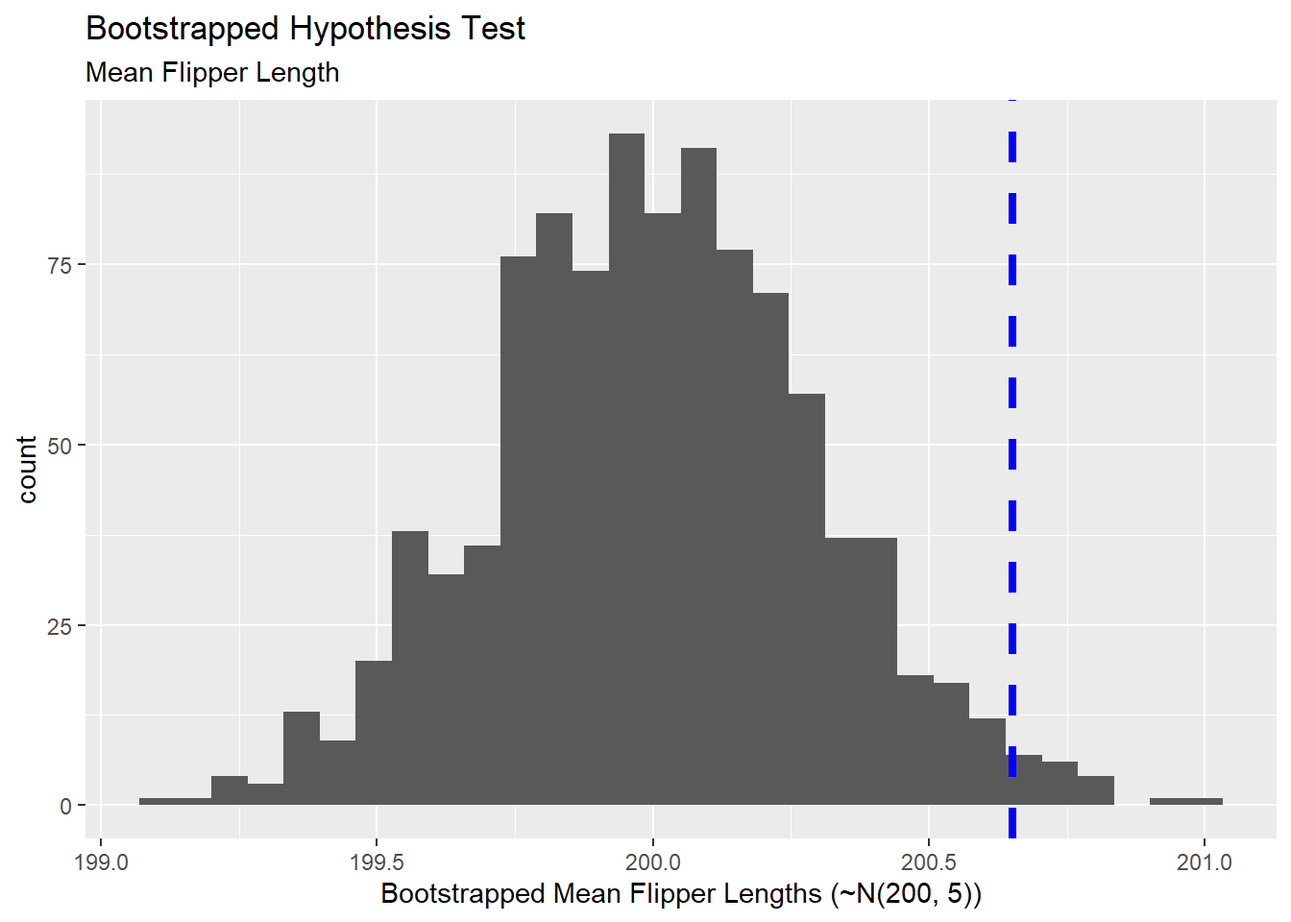
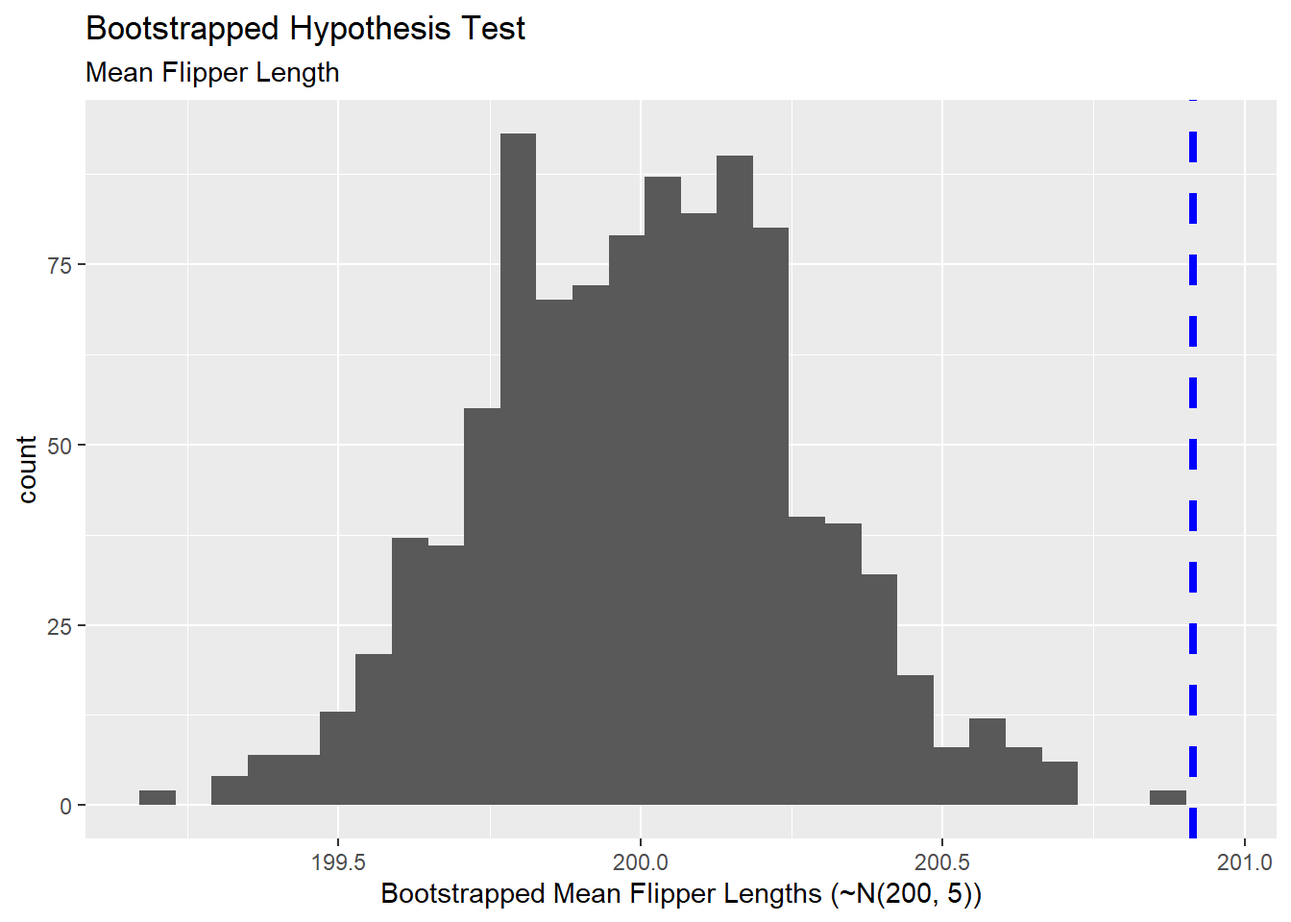
fix fallout from changing penguins samples

diff --git a/ClassicalInferenceAndSimulationBasedInference.html b/ClassicalInferenceAndSimulationBasedInference.html
@@ -133,7 +133,7 @@ code span.wa { color: #60a0b0; font-weight: bold; font-style: italic; } /* Warni
 
 </header>
 
-<p><strong>Objectives:</strong> In this notebook we’ll be reminded of classical inference techniques built on the Central Limit Theorem. We’ll also address bootstrapping methods and how statistical inference can still be made from data even if we refuse to assume the Central Limit Theorem. We’ll attempt some statistical inferences using these bootstrapping techniques and our <code>penguins_samp2</code> data.</p>
+<p><strong>Objectives:</strong> In this notebook we’ll be reminded of classical inference techniques built on the Central Limit Theorem. We’ll also address bootstrapping methods and how statistical inference can still be made from data even if we refuse to assume the Central Limit Theorem. We’ll attempt some statistical inferences using these bootstrapping techniques and our <code>penguins</code> data.</p>
 <section id="classical-statistics-versus-simulation-based-methods" class="level2">
 <h2 class="anchored" data-anchor-id="classical-statistics-versus-simulation-based-methods">Classical Statistics versus Simulation-Based Methods</h2>
 <p>In your introductory statistics courses, you spent lots of time using confidence intervals and hypothesis tests to make or test claims about populations by using sample data. Those are really powerful tools, but you saw them in a fairly restrictive environment – that entire course assumed that the underlying sampling distribution was nearly normal. While this is often the case, it isn’t always a reasonable assumption – particularly in the case of small sample sizes or extremely skewed metrics. We’ll recap those classical approaches and introduce simulation-based methods in this notebook.</p>
@@ -141,8 +141,8 @@ code span.wa { color: #60a0b0; font-weight: bold; font-style: italic; } /* Warni
 <h3 class="anchored" data-anchor-id="classical-approaches-a-reminder">Classical Approaches: A Reminder</h3>
 <p>In Classical Statistics, we assume the Central Limit Theorem. That Theorem guarantees that the sampling distribution (the distribution of summary statistics for <em>all</em> samples of our size from the population) is approximately Normal. This allows us to</p>
 <ul>
-<li>Use critical values from a <em>Normal</em> or <em>t</em>-distribution when building confidence intervals. As a reminder, confidence intervals are constructed using the following formula: <span class="math display">\[\left(\text{point_estimate}\right) \pm \left(\text{critical_value}\right)\left(\text{standard_error}\right)\]</span></li>
-<li>Compute <span class="math inline">\(p\)</span>-values using a test statistic and then computing a <span class="math inline">\(p\)</span>-value using a <em>Normal</em> or <em>t</em>-distribution. As a reminder, our test statistics were computed as follows: <span class="math display">\[\text{test_statistic} = \frac{\left(\text{point_estimate}\right) - \left(\text{null_value}\right)}{\text{standard_error}}\]</span></li>
+<li>Use critical values from a <em>Normal</em> or <em>t</em>-distribution when building confidence intervals. As a reminder, confidence intervals are constructed using the following formula: <span class="math display">\[\left(\text{point\_estimate}\right) \pm \left(\text{critical\_value}\right)\left(\text{standard\_error}\right)\]</span></li>
+<li>Compute <span class="math inline">\(p\)</span>-values using a test statistic and then computing a <span class="math inline">\(p\)</span>-value using a <em>Normal</em> or <em>t</em>-distribution. As a reminder, our test statistics were computed as follows: <span class="math display">\[\text{test\_statistic} = \frac{\left(\text{point\_estimate}\right) - \left(\text{null\_value}\right)}{\text{standard\_error}}\]</span></li>
 </ul>
 <p>While the Central Limit Theorem often applies, we can’t always assume it. Simulation techniques are helpful in those situations.</p>
 </section>
@@ -151,13 +151,13 @@ code span.wa { color: #60a0b0; font-weight: bold; font-style: italic; } /* Warni
 <p>If we are in a scenario where we are unable to assume that our underlying sampling distribution is nearly normal, then we’ll need another technique. Essentially, by refusing to assume that the sampling distribution is nearly normal, we concede that any <span class="math inline">\(p\)</span>-value we find, or confidence intervals we build will be untrustworthy. As long as we are willing to assume that our sample data is <em>random</em> and <em>representative</em> of the population, then we can use simulation techniques to find <span class="math inline">\(p\)</span>-values and generate confidence intervals.</p>
 <section id="bootstrapping" class="level4">
 <h4 class="anchored" data-anchor-id="bootstrapping">Bootstrapping</h4>
-<p>As long as we are comfortable assuming that our sample data is <em>random</em> and <em>representative</em> of our population, then we can treat our sample data as if it were a population. We can then redraw samples of the same size out of it. We can do this over and over again, computing our sample statistic for each redrawn (<em>bootstrapped</em>) sample. Let’s see that in action below, using our <code>penguins_samp2</code> data.</p>
+<p>As long as we are comfortable assuming that our sample data is <em>random</em> and <em>representative</em> of our population, then we can treat our sample data as if it were a population. We can then redraw samples of the same size out of it. We can do this over and over again, computing our sample statistic for each redrawn (<em>bootstrapped</em>) sample. Let’s see that in action below, using our full <code>penguins</code> data.</p>
 <div class="cell">
 <div class="sourceCode cell-code" id="cb1"><pre class="sourceCode r code-with-copy"><code class="sourceCode r"><span id="cb1-1"><a href="#cb1-1" aria-hidden="true" tabindex="-1"></a>n_samps <span class="ot">&lt;-</span> <span class="dv">1000</span></span>
 <span id="cb1-2"><a href="#cb1-2" aria-hidden="true" tabindex="-1"></a>sample_means <span class="ot">&lt;-</span> <span class="fu">rep</span>(<span class="cn">NA</span>, n_samps)</span>
 <span id="cb1-3"><a href="#cb1-3" aria-hidden="true" tabindex="-1"></a><span class="cf">for</span>(i <span class="cf">in</span> <span class="dv">1</span><span class="sc">:</span>n_samps){</span>
-<span id="cb1-4"><a href="#cb1-4" aria-hidden="true" tabindex="-1"></a>  my_samp <span class="ot">&lt;-</span> penguins_samp2 <span class="sc">%&gt;%</span></span>
-<span id="cb1-5"><a href="#cb1-5" aria-hidden="true" tabindex="-1"></a>    <span class="fu">sample_n</span>(<span class="fu">nrow</span>(penguins_samp2), <span class="at">replace =</span> <span class="cn">TRUE</span>)</span>
+<span id="cb1-4"><a href="#cb1-4" aria-hidden="true" tabindex="-1"></a>  my_samp <span class="ot">&lt;-</span> penguins <span class="sc">%&gt;%</span></span>
+<span id="cb1-5"><a href="#cb1-5" aria-hidden="true" tabindex="-1"></a>    <span class="fu">sample_n</span>(<span class="fu">nrow</span>(penguins), <span class="at">replace =</span> <span class="cn">TRUE</span>)</span>
 <span id="cb1-6"><a href="#cb1-6" aria-hidden="true" tabindex="-1"></a>  sample_means[i] <span class="ot">&lt;-</span> my_samp <span class="sc">%&gt;%</span></span>
 <span id="cb1-7"><a href="#cb1-7" aria-hidden="true" tabindex="-1"></a>    <span class="fu">summarize</span>(<span class="at">mean =</span> <span class="fu">mean</span>(flipper_length_mm, <span class="at">na.rm =</span> <span class="cn">TRUE</span>)) <span class="sc">%&gt;%</span></span>
 <span id="cb1-8"><a href="#cb1-8" aria-hidden="true" tabindex="-1"></a>    <span class="fu">pull</span>(mean)</span>
@@ -183,10 +183,10 @@ code span.wa { color: #60a0b0; font-weight: bold; font-style: italic; } /* Warni
 <div class="sourceCode cell-code" id="cb3"><pre class="sourceCode r code-with-copy"><code class="sourceCode r"><span id="cb3-1"><a href="#cb3-1" aria-hidden="true" tabindex="-1"></a><span class="fu">quantile</span>(sample_means, <span class="fu">c</span>(<span class="fl">0.025</span>, <span class="fl">0.975</span>))</span></code><button title="Copy to Clipboard" class="code-copy-button"><i class="bi"></i></button></pre></div>
 <div class="cell-output cell-output-stdout">
 <pre><code>    2.5%    97.5% 
-199.0373 202.2575 </code></pre>
+199.4006 202.4362 </code></pre>
 </div>
 </div>
-<p>We can now claim, with <span class="math inline">\(95\)</span>% confidence, that the population mean flipper length for penguins falls somewhere between 199.04mm and 202.26mm. Visually, what we’ve done appears below – with the confidence interval bounds represented by the two vertical dashed lines.</p>
+<p>We can now claim, with <span class="math inline">\(95\)</span>% confidence, that the population mean flipper length for penguins falls somewhere between 199.4mm and 202.44mm. Visually, what we’ve done appears below – with the confidence interval bounds represented by the two vertical dashed lines.</p>
 <div class="cell">
 <div class="sourceCode cell-code" id="cb5"><pre class="sourceCode r code-with-copy"><code class="sourceCode r"><span id="cb5-1"><a href="#cb5-1" aria-hidden="true" tabindex="-1"></a><span class="fu">ggplot</span>() <span class="sc">+</span></span>
 <span id="cb5-2"><a href="#cb5-2" aria-hidden="true" tabindex="-1"></a>  <span class="fu">geom_histogram</span>(<span class="fu">aes</span>(<span class="at">x =</span> sample_means)) <span class="sc">+</span></span>
@@ -220,11 +220,11 @@ code span.wa { color: #60a0b0; font-weight: bold; font-style: italic; } /* Warni
 <span id="cb7-2"><a href="#cb7-2" aria-hidden="true" tabindex="-1"></a>bootstrapped_mean_lengths <span class="ot">&lt;-</span> <span class="fu">rep</span>(<span class="cn">NA</span>, num_samps)</span>
 <span id="cb7-3"><a href="#cb7-3" aria-hidden="true" tabindex="-1"></a></span>
 <span id="cb7-4"><a href="#cb7-4" aria-hidden="true" tabindex="-1"></a><span class="cf">for</span>(i <span class="cf">in</span> <span class="dv">1</span><span class="sc">:</span>num_samps){</span>
-<span id="cb7-5"><a href="#cb7-5" aria-hidden="true" tabindex="-1"></a>  my_samp <span class="ot">&lt;-</span> <span class="fu">rnorm</span>(<span class="fu">nrow</span>(penguins_samp2), <span class="dv">200</span>, <span class="dv">5</span>)</span>
+<span id="cb7-5"><a href="#cb7-5" aria-hidden="true" tabindex="-1"></a>  my_samp <span class="ot">&lt;-</span> <span class="fu">rnorm</span>(<span class="fu">nrow</span>(penguins), <span class="dv">200</span>, <span class="dv">5</span>)</span>
 <span id="cb7-6"><a href="#cb7-6" aria-hidden="true" tabindex="-1"></a>  bootstrapped_mean_lengths[i] <span class="ot">&lt;-</span> <span class="fu">mean</span>(my_samp)</span>
 <span id="cb7-7"><a href="#cb7-7" aria-hidden="true" tabindex="-1"></a>  }</span>
 <span id="cb7-8"><a href="#cb7-8" aria-hidden="true" tabindex="-1"></a></span>
-<span id="cb7-9"><a href="#cb7-9" aria-hidden="true" tabindex="-1"></a>my_mean_flipper_length <span class="ot">&lt;-</span> penguins_samp2 <span class="sc">%&gt;%</span></span>
+<span id="cb7-9"><a href="#cb7-9" aria-hidden="true" tabindex="-1"></a>my_mean_flipper_length <span class="ot">&lt;-</span> penguins <span class="sc">%&gt;%</span></span>
 <span id="cb7-10"><a href="#cb7-10" aria-hidden="true" tabindex="-1"></a>  <span class="fu">summarize</span>(<span class="at">mean =</span> <span class="fu">mean</span>(flipper_length_mm, <span class="at">na.rm =</span> <span class="cn">TRUE</span>)) <span class="sc">%&gt;%</span></span>
 <span id="cb7-11"><a href="#cb7-11" aria-hidden="true" tabindex="-1"></a>  <span class="fu">pull</span>(mean)</span>
 <span id="cb7-12"><a href="#cb7-12" aria-hidden="true" tabindex="-1"></a></span>
@@ -252,7 +252,7 @@ code span.wa { color: #60a0b0; font-weight: bold; font-style: italic; } /* Warni
 <span id="cb9-3"><a href="#cb9-3" aria-hidden="true" tabindex="-1"></a>bootstrapped_p_value <span class="ot">&lt;-</span> <span class="dv">2</span><span class="sc">*</span>(num_extreme <span class="sc">/</span> num_samps)</span>
 <span id="cb9-4"><a href="#cb9-4" aria-hidden="true" tabindex="-1"></a>bootstrapped_p_value</span></code><button title="Copy to Clipboard" class="code-copy-button"><i class="bi"></i></button></pre></div>
 <div class="cell-output cell-output-stdout">
-<pre><code>[1] 0.036</code></pre>
+<pre><code>[1] 0</code></pre>
 </div>
 </div>
 <p>Since we’ve obtained a Bootstrapped <span class="math inline">\(p\)</span>-value below <span class="math inline">\(0.05\)</span>, we have statistically significant evidence to suggest that our penguin flipper lengths do not come from a normal distribution with mean <span class="math inline">\(200\)</span>mm and standard deviation <span class="math inline">\(5\)</span>mm. Three things are possible here:</p>
@@ -264,16 +264,16 @@ code span.wa { color: #60a0b0; font-weight: bold; font-style: italic; } /* Warni
 </section>
 <section id="permutation-tests-for-group-comparisons" class="level4">
 <h4 class="anchored" data-anchor-id="permutation-tests-for-group-comparisons">Permutation Tests for Group Comparisons</h4>
-<p>We can also use a Bootstrapping procedure for conducting two-sample comparison hypothesis tests. Perhaps we are wondering whether there is a difference in the mean flipper lengths for male and female penguins. We know that our sample <code>penguins_samp2</code> has the correct/meaningful assignment of each penguin’s <code>sex</code>. This results in a group of male and female penguins whose average flipper length is a quantity we can compute. Once we have those average flipper lengths, we can subtract them to find the difference in mean flipper lengths between male and female penguins in our sample.</p>
+<p>We can also use a Bootstrapping procedure for conducting two-sample comparison hypothesis tests. Perhaps we are wondering whether there is a difference in the mean flipper lengths for male and female penguins. We know that our sample <code>penguins</code> has the correct/meaningful assignment of each penguin’s <code>sex</code>. This results in a group of male and female penguins whose average flipper length is a quantity we can compute. Once we have those average flipper lengths, we can subtract them to find the difference in mean flipper lengths between male and female penguins in our sample.</p>
 <p>Next, we can permute (shuffle) the values in the <code>sex</code> column, creating a new grouping of the penguins which is not actually related to the <code>sex</code> of the penguins at all. Similarly, we can compute the average flipper length within each group and subtract those averages to find the difference in mean flipper length between the two groups. We can do this lots of times, obtaining lots of differences in average flipper lengths for which the <code>sex</code> variable is meaningless. Then, we can see whether our sample, where <code>sex</code> is a meaningful variable, is an outlier in this distribution of bootstrapped results.</p>
 <p>Let’s try it!</p>
 <div class="cell">
-<div class="sourceCode cell-code" id="cb11"><pre class="sourceCode r code-with-copy"><code class="sourceCode r"><span id="cb11-1"><a href="#cb11-1" aria-hidden="true" tabindex="-1"></a>my_female_avg_flipper_length <span class="ot">&lt;-</span> penguins_samp2 <span class="sc">%&gt;%</span></span>
+<div class="sourceCode cell-code" id="cb11"><pre class="sourceCode r code-with-copy"><code class="sourceCode r"><span id="cb11-1"><a href="#cb11-1" aria-hidden="true" tabindex="-1"></a>my_female_avg_flipper_length <span class="ot">&lt;-</span> penguins <span class="sc">%&gt;%</span></span>
 <span id="cb11-2"><a href="#cb11-2" aria-hidden="true" tabindex="-1"></a>  <span class="fu">filter</span>(sex <span class="sc">==</span> <span class="st">"female"</span>) <span class="sc">%&gt;%</span></span>
 <span id="cb11-3"><a href="#cb11-3" aria-hidden="true" tabindex="-1"></a>  <span class="fu">summarize</span>(<span class="at">mean =</span> <span class="fu">mean</span>(flipper_length_mm, <span class="at">na.rm =</span> <span class="cn">TRUE</span>)) <span class="sc">%&gt;%</span></span>
 <span id="cb11-4"><a href="#cb11-4" aria-hidden="true" tabindex="-1"></a>  <span class="fu">pull</span>(mean)</span>
 <span id="cb11-5"><a href="#cb11-5" aria-hidden="true" tabindex="-1"></a></span>
-<span id="cb11-6"><a href="#cb11-6" aria-hidden="true" tabindex="-1"></a>my_male_avg_flipper_length <span class="ot">&lt;-</span> penguins_samp2 <span class="sc">%&gt;%</span></span>
+<span id="cb11-6"><a href="#cb11-6" aria-hidden="true" tabindex="-1"></a>my_male_avg_flipper_length <span class="ot">&lt;-</span> penguins <span class="sc">%&gt;%</span></span>
 <span id="cb11-7"><a href="#cb11-7" aria-hidden="true" tabindex="-1"></a>  <span class="fu">filter</span>(sex <span class="sc">==</span> <span class="st">"male"</span>) <span class="sc">%&gt;%</span></span>
 <span id="cb11-8"><a href="#cb11-8" aria-hidden="true" tabindex="-1"></a>  <span class="fu">summarize</span>(<span class="at">mean =</span> <span class="fu">mean</span>(flipper_length_mm, <span class="at">na.rm =</span> <span class="cn">TRUE</span>)) <span class="sc">%&gt;%</span></span>
 <span id="cb11-9"><a href="#cb11-9" aria-hidden="true" tabindex="-1"></a>  <span class="fu">pull</span>(mean)</span>
@@ -285,8 +285,8 @@ code span.wa { color: #60a0b0; font-weight: bold; font-style: italic; } /* Warni
 <span id="cb11-15"><a href="#cb11-15" aria-hidden="true" tabindex="-1"></a>independent_differences <span class="ot">&lt;-</span> <span class="fu">rep</span>(<span class="cn">NA</span>, num_samps)</span>
 <span id="cb11-16"><a href="#cb11-16" aria-hidden="true" tabindex="-1"></a></span>
 <span id="cb11-17"><a href="#cb11-17" aria-hidden="true" tabindex="-1"></a><span class="cf">for</span>(i <span class="cf">in</span> <span class="dv">1</span><span class="sc">:</span>num_samps){</span>
-<span id="cb11-18"><a href="#cb11-18" aria-hidden="true" tabindex="-1"></a>  penguins_reassigned <span class="ot">&lt;-</span> penguins_samp2 <span class="sc">%&gt;%</span></span>
-<span id="cb11-19"><a href="#cb11-19" aria-hidden="true" tabindex="-1"></a>    <span class="fu">mutate</span>(<span class="at">sex =</span> <span class="fu">sample</span>(sex, <span class="fu">nrow</span>(penguins_samp2), <span class="at">replace =</span> <span class="cn">FALSE</span>))</span>
+<span id="cb11-18"><a href="#cb11-18" aria-hidden="true" tabindex="-1"></a>  penguins_reassigned <span class="ot">&lt;-</span> penguins <span class="sc">%&gt;%</span></span>
+<span id="cb11-19"><a href="#cb11-19" aria-hidden="true" tabindex="-1"></a>    <span class="fu">mutate</span>(<span class="at">sex =</span> <span class="fu">sample</span>(sex, <span class="fu">nrow</span>(penguins), <span class="at">replace =</span> <span class="cn">FALSE</span>))</span>
 <span id="cb11-20"><a href="#cb11-20" aria-hidden="true" tabindex="-1"></a>  </span>
 <span id="cb11-21"><a href="#cb11-21" aria-hidden="true" tabindex="-1"></a>  fem_avg <span class="ot">&lt;-</span> penguins_reassigned <span class="sc">%&gt;%</span></span>
 <span id="cb11-22"><a href="#cb11-22" aria-hidden="true" tabindex="-1"></a>    <span class="fu">filter</span>(sex <span class="sc">==</span> <span class="st">"female"</span>) <span class="sc">%&gt;%</span></span>

diff --git a/FromDescriptionToInference.html b/FromDescriptionToInference.html
@@ -93,7 +93,7 @@ ul.task-list li input[type="checkbox"] {
 <h3 class="anchored" data-anchor-id="why-cant-we-use-penguins_samp1-anymore">Why Can’t We Use <code>penguins_samp1</code> Anymore?</h3>
 <p>We’ve looked at our <em>sample</em> penguins data already. We explored that data without making any hypotheses ahead of time. We searched for relationships within that data set and we were successful in finding some. How do we know that those <em>relationships</em>/<em>associations</em> aren’t just noise in the data? Simply put, we don’t!</p>
 <p>Unfortunately, we can’t go back on this now either. As ethical scientists, we can’t use the <code>penguins_samp1</code> data for inference tasks because we know what those data say. We are now in a scenario where the data has informed which questions should be asked, whereas the data should only be used to answer the questions we had before we looked at it. To put it in terms analogous to schooling – the <em>data</em> wrote the exam, so certainly the <em>data</em> has an advantage in answering the questions.</p>
-<p><strong>For Example:</strong> In our exploratory data analysis, we saw that the [INSERT MISLEADING INSIGHT HERE]. If we test that hypothesis using the data from last time, it should be no surprise that we obtain a statistically significant result – we <em>snooped</em> for it.</p>
+<p><strong>For Example:</strong> In our analysis from the <code>TidyAnalysesInR</code> notebook, at the end of our exploratory analysis, we asked whether the average penguin <code>bill_length_mm</code> exceeded <span class="math inline">\(45\)</span>mm. I suggested that you ask this questions because the average bill length for a penguin in that dataset was over <span class="math inline">\(46\)</span>mm. If we test that hypothesis using the data from last time (<code>penguins_samp1</code>), it should be no surprise that we obtain a statistically significant result – we <em>snooped</em> for it.</p>
 </section>
 <section id="uncertainty-and-errors-in-statistics" class="level3">
 <h3 class="anchored" data-anchor-id="uncertainty-and-errors-in-statistics">Uncertainty and Errors in Statistics</h3>

diff --git a/ClassicalInferenceAndSimulationBasedInference.md b/ClassicalInferenceAndSimulationBasedInference.md
@@ -12,7 +12,7 @@ execute:
 
 
 
-**Objectives:** In this notebook we'll be reminded of classical inference techniques built on the Central Limit Theorem. We'll also address bootstrapping methods and how statistical inference can still be made from data even if we refuse to assume the Central Limit Theorem. We'll attempt some statistical inferences using these bootstrapping techniques and our `penguins_samp2` data.
+**Objectives:** In this notebook we'll be reminded of classical inference techniques built on the Central Limit Theorem. We'll also address bootstrapping methods and how statistical inference can still be made from data even if we refuse to assume the Central Limit Theorem. We'll attempt some statistical inferences using these bootstrapping techniques and our `penguins` data.
 
 ## Classical Statistics versus Simulation-Based Methods
 
@@ -23,9 +23,9 @@ In your introductory statistics courses, you spent lots of time using confidence
 In Classical Statistics, we assume the Central Limit Theorem. That Theorem guarantees that the sampling distribution (the distribution of summary statistics for *all* samples of our size from the population) is approximately Normal. This allows us to
 
 + Use critical values from a *Normal* or *t*-distribution when building confidence intervals. As a reminder, confidence intervals are constructed using the following formula:
-$$\left(\text{point_estimate}\right) \pm \left(\text{critical_value}\right)\left(\text{standard_error}\right)$$
+$$\left(\text{point\_estimate}\right) \pm \left(\text{critical\_value}\right)\left(\text{standard\_error}\right)$$
 + Compute $p$-values using a test statistic and then computing a $p$-value using a *Normal* or *t*-distribution. As a reminder, our test statistics were computed as follows:
-$$\text{test_statistic} = \frac{\left(\text{point_estimate}\right) - \left(\text{null_value}\right)}{\text{standard_error}}$$
+$$\text{test\_statistic} = \frac{\left(\text{point\_estimate}\right) - \left(\text{null\_value}\right)}{\text{standard\_error}}$$
 
 While the Central Limit Theorem often applies, we can't always assume it. Simulation techniques are helpful in those situations.
 
@@ -35,7 +35,7 @@ If we are in a scenario where we are unable to assume that our underlying sampli
 
 #### Bootstrapping
 
-As long as we are comfortable assuming that our sample data is *random* and *representative* of our population, then we can treat our sample data as if it were a population. We can then redraw samples of the same size out of it. We can do this over and over again, computing our sample statistic for each redrawn (*bootstrapped*) sample. Let's see that in action below, using our `penguins_samp2` data.
+As long as we are comfortable assuming that our sample data is *random* and *representative* of our population, then we can treat our sample data as if it were a population. We can then redraw samples of the same size out of it. We can do this over and over again, computing our sample statistic for each redrawn (*bootstrapped*) sample. Let's see that in action below, using our full `penguins` data.
 
 
 ::: {.cell}
@@ -44,8 +44,8 @@ As long as we are comfortable assuming that our sample data is *random* and *rep
 n_samps <- 1000
 sample_means <- rep(NA, n_samps)
 for(i in 1:n_samps){
-  my_samp <- penguins_samp2 %>%
-    sample_n(nrow(penguins_samp2), replace = TRUE)
+  my_samp <- penguins %>%
+    sample_n(nrow(penguins), replace = TRUE)
   sample_means[i] <- my_samp %>%
     summarize(mean = mean(flipper_length_mm, na.rm = TRUE)) %>%
     pull(mean)
@@ -86,13 +86,13 @@ quantile(sample_means, c(0.025, 0.975))
 ::: {.cell-output .cell-output-stdout}
 ```
     2.5%    97.5% 
-199.0373 202.2575 
+199.4006 202.4362 
 ```
 :::
 :::
 
 
-We can now claim, with $95$% confidence, that the population mean flipper length for penguins falls somewhere between 199.04mm and 202.26mm. Visually, what we've done appears below -- with the confidence interval bounds represented by the two vertical dashed lines.
+We can now claim, with $95$% confidence, that the population mean flipper length for penguins falls somewhere between 199.4mm and 202.44mm. Visually, what we've done appears below -- with the confidence interval bounds represented by the two vertical dashed lines.
 
 
 ::: {.cell}
@@ -141,11 +141,11 @@ num_samps <- 1000
 bootstrapped_mean_lengths <- rep(NA, num_samps)
 
 for(i in 1:num_samps){
-  my_samp <- rnorm(nrow(penguins_samp2), 200, 5)
+  my_samp <- rnorm(nrow(penguins), 200, 5)
   bootstrapped_mean_lengths[i] <- mean(my_samp)
   }
 
-my_mean_flipper_length <- penguins_samp2 %>%
+my_mean_flipper_length <- penguins %>%
   summarize(mean = mean(flipper_length_mm, na.rm = TRUE)) %>%
   pull(mean)
 
@@ -187,7 +187,7 @@ bootstrapped_p_value
 
 ::: {.cell-output .cell-output-stdout}
 ```
-[1] 0.036
+[1] 0
 ```
 :::
 :::
@@ -201,7 +201,7 @@ Since we've obtained a Bootstrapped $p$-value below $0.05$, we have statisticall
 
 #### Permutation Tests for Group Comparisons
 
-We can also use a Bootstrapping procedure for conducting two-sample comparison hypothesis tests. Perhaps we are wondering whether there is a difference in the mean flipper lengths for male and female penguins. We know that our sample `penguins_samp2` has the correct/meaningful assignment of each penguin's `sex`. This results in a group of male and female penguins whose average flipper length is a quantity we can compute. Once we have those average flipper lengths, we can subtract them to find the difference in mean flipper lengths between male and female penguins in our sample.
+We can also use a Bootstrapping procedure for conducting two-sample comparison hypothesis tests. Perhaps we are wondering whether there is a difference in the mean flipper lengths for male and female penguins. We know that our sample `penguins` has the correct/meaningful assignment of each penguin's `sex`. This results in a group of male and female penguins whose average flipper length is a quantity we can compute. Once we have those average flipper lengths, we can subtract them to find the difference in mean flipper lengths between male and female penguins in our sample.
 
 Next, we can permute (shuffle) the values in the `sex` column, creating a new grouping of the penguins which is not actually related to the `sex` of the penguins at all. Similarly, we can compute the average flipper length within each group and subtract those averages to find the difference in mean flipper length between the two groups. We can do this lots of times, obtaining lots of differences in average flipper lengths for which the `sex` variable is meaningless. Then, we can see whether our sample, where `sex` is a meaningful variable, is an outlier in this distribution of bootstrapped results.
 
@@ -211,12 +211,12 @@ Let's try it!
 ::: {.cell}
 
 ```{.r .cell-code}
-my_female_avg_flipper_length <- penguins_samp2 %>%
+my_female_avg_flipper_length <- penguins %>%
   filter(sex == "female") %>%
   summarize(mean = mean(flipper_length_mm, na.rm = TRUE)) %>%
   pull(mean)
 
-my_male_avg_flipper_length <- penguins_samp2 %>%
+my_male_avg_flipper_length <- penguins %>%
   filter(sex == "male") %>%
   summarize(mean = mean(flipper_length_mm, na.rm = TRUE)) %>%
   pull(mean)
@@ -228,8 +228,8 @@ num_samps <- 1000
 independent_differences <- rep(NA, num_samps)
 
 for(i in 1:num_samps){
-  penguins_reassigned <- penguins_samp2 %>%
-    mutate(sex = sample(sex, nrow(penguins_samp2), replace = FALSE))
+  penguins_reassigned <- penguins %>%
+    mutate(sex = sample(sex, nrow(penguins), replace = FALSE))
   
   fem_avg <- penguins_reassigned %>%
     filter(sex == "female") %>%

diff --git a/FromDescriptionToInference.md b/FromDescriptionToInference.md
@@ -41,7 +41,7 @@ We've looked at our *sample* penguins data already. We explored that data withou
 
 Unfortunately, we can't go back on this now either. As ethical scientists, we can't use the `penguins_samp1` data for inference tasks because we know what those data say. We are now in a scenario where the data has informed which questions should be asked, whereas the data should only be used to answer the questions we had before we looked at it. To put it in terms analogous to schooling -- the *data* wrote the exam, so certainly the *data* has an advantage in answering the questions.
 
-**For Example:** In our exploratory data analysis, we saw that the [INSERT MISLEADING INSIGHT HERE]. If we test that hypothesis using the data from last time, it should be no surprise that we obtain a statistically significant result -- we *snooped* for it.
+**For Example:** In our analysis from the `TidyAnalysesInR` notebook, at the end of our exploratory analysis, we asked whether the average penguin `bill_length_mm` exceeded $45$mm. I suggested that you ask this questions because the average bill length for a penguin in that dataset was over $46$mm. If we test that hypothesis using the data from last time (`penguins_samp1`), it should be no surprise that we obtain a statistically significant result -- we *snooped* for it.
 
 ### Uncertainty and Errors in Statistics
 
